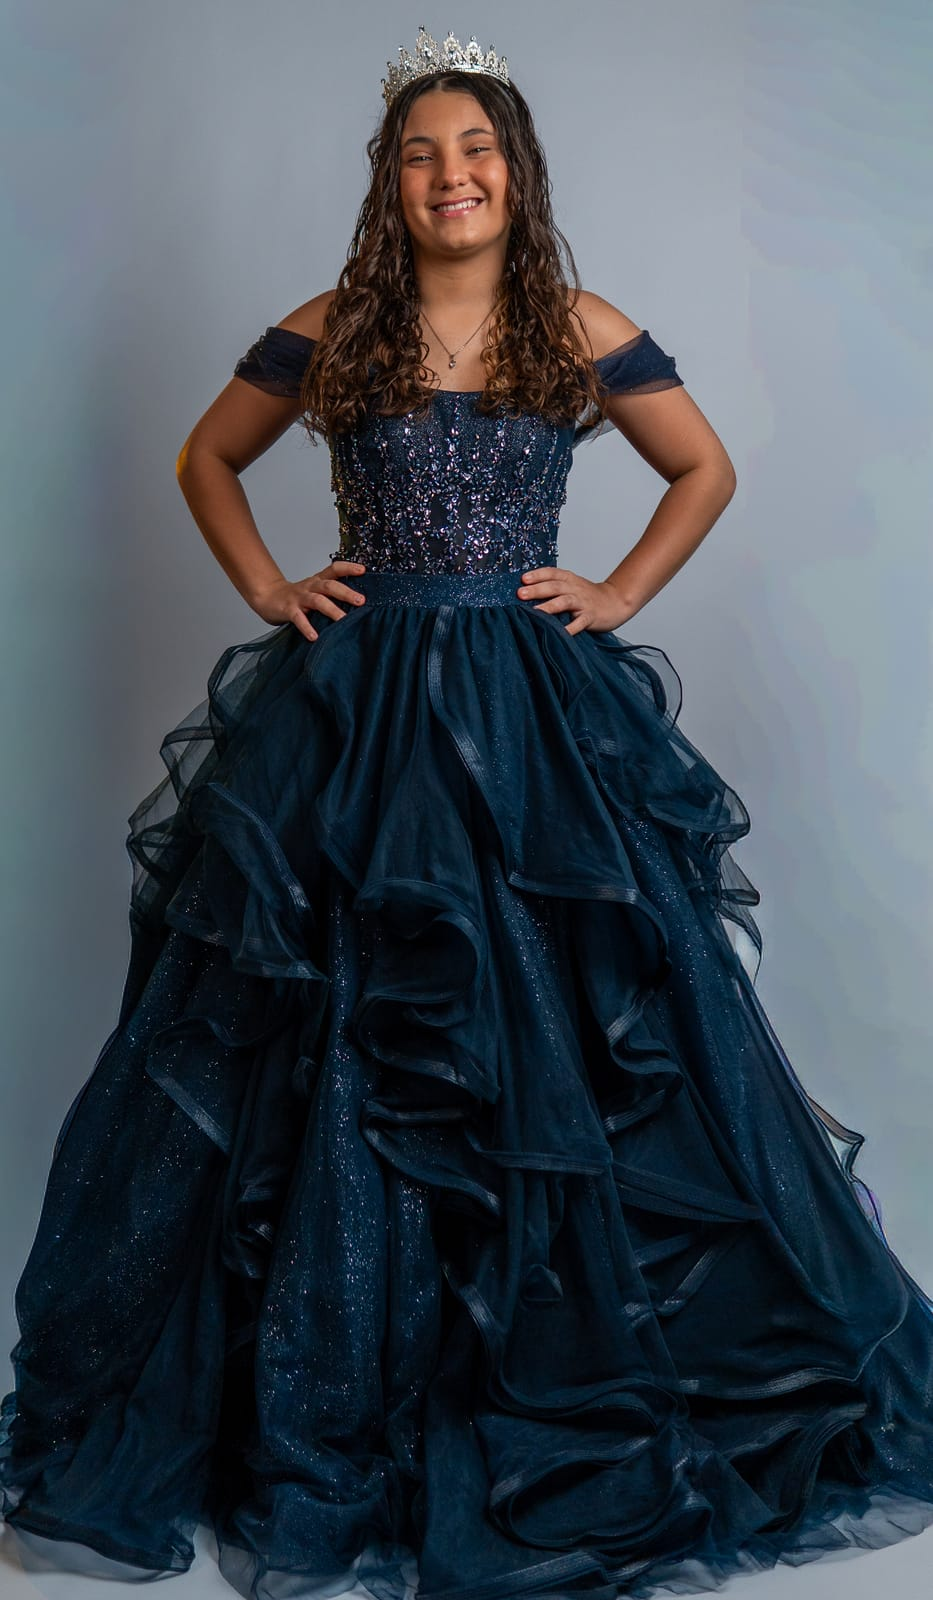
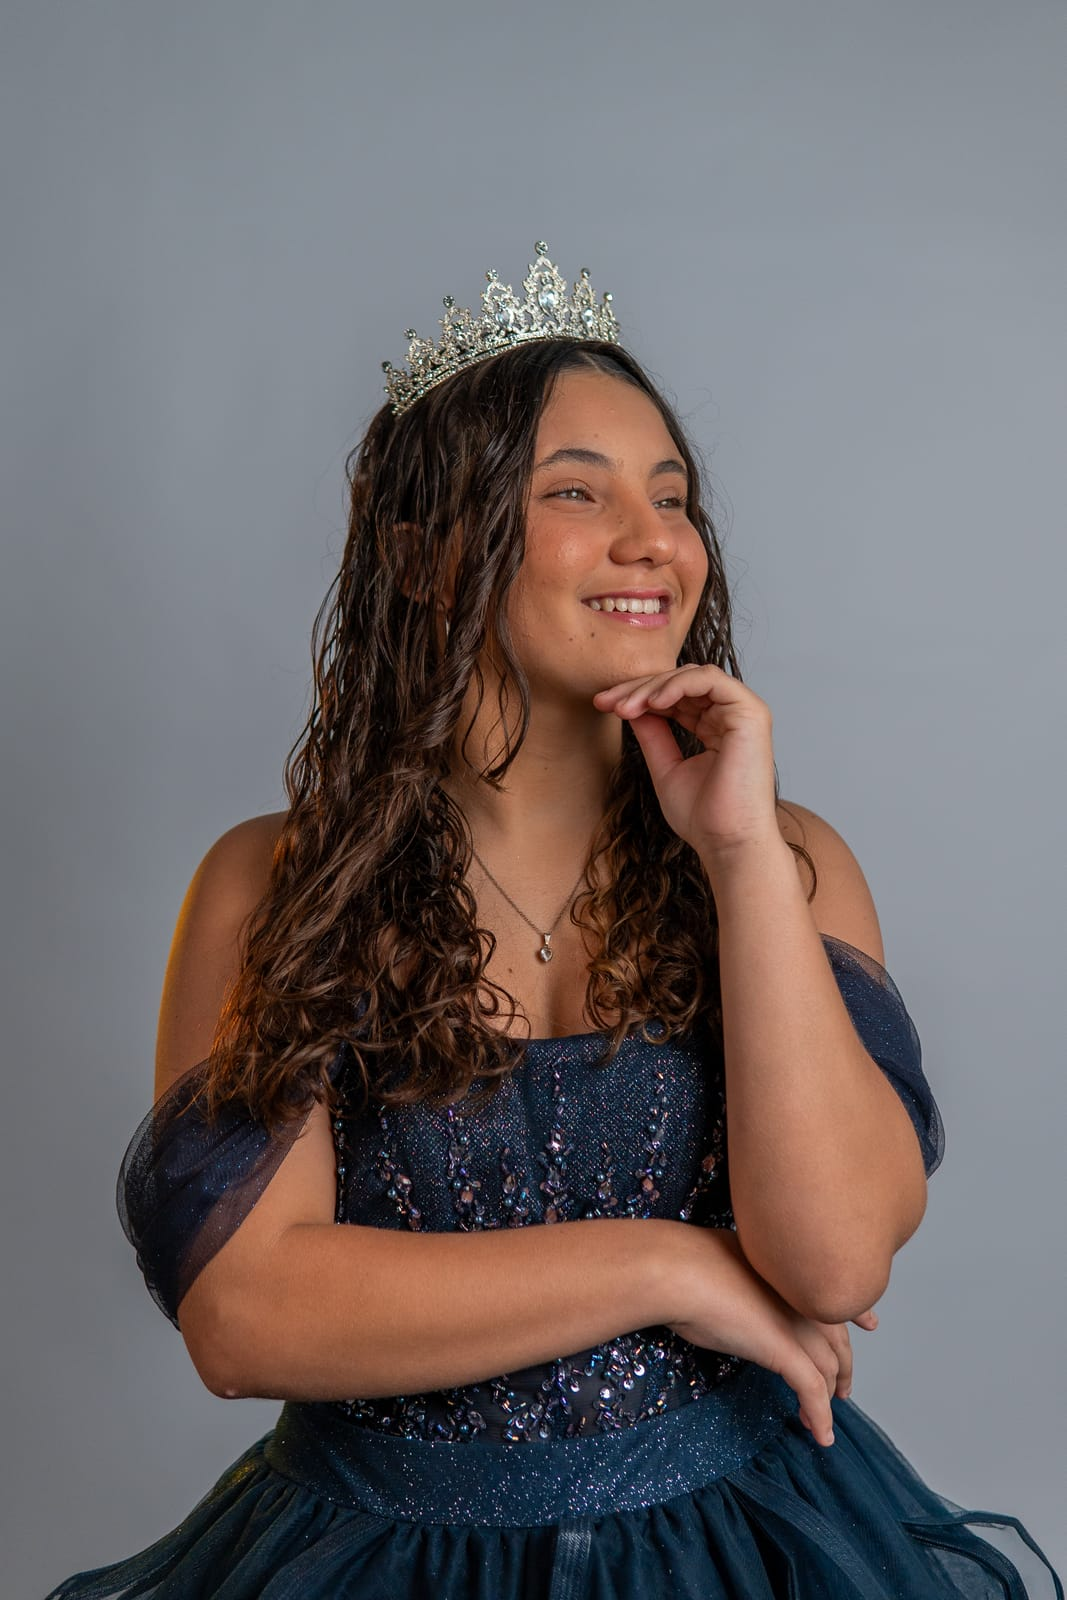
ajustes

diff --git a/index.html b/index.html
@@ -201,7 +201,7 @@
     </section>
 
     <!-- ================= GALERIA ================= -->
-    <section class="section section--ivory" id="galeria">
+    <section class="section section--ivory" id="galeria" style="display: none;">
       <div class="container">
         <header class="section__head reveal">
           <p class="eyebrow">Ensaio de 15 anos</p>
